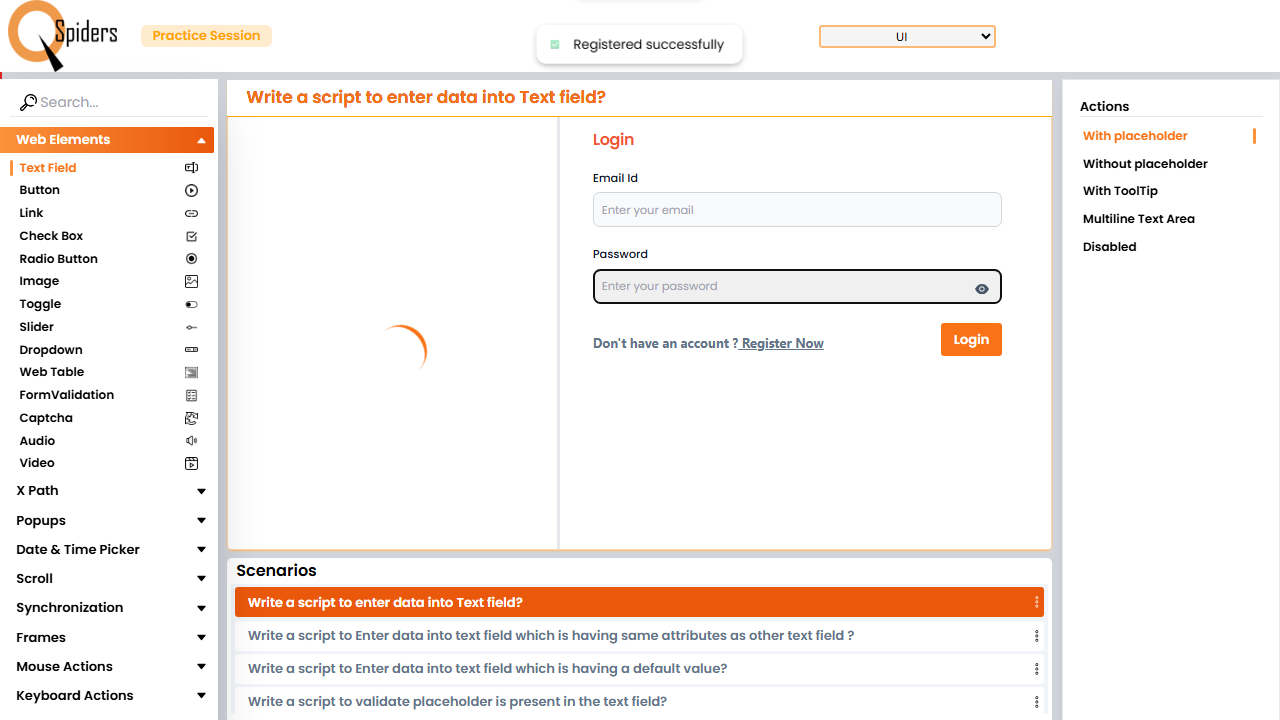
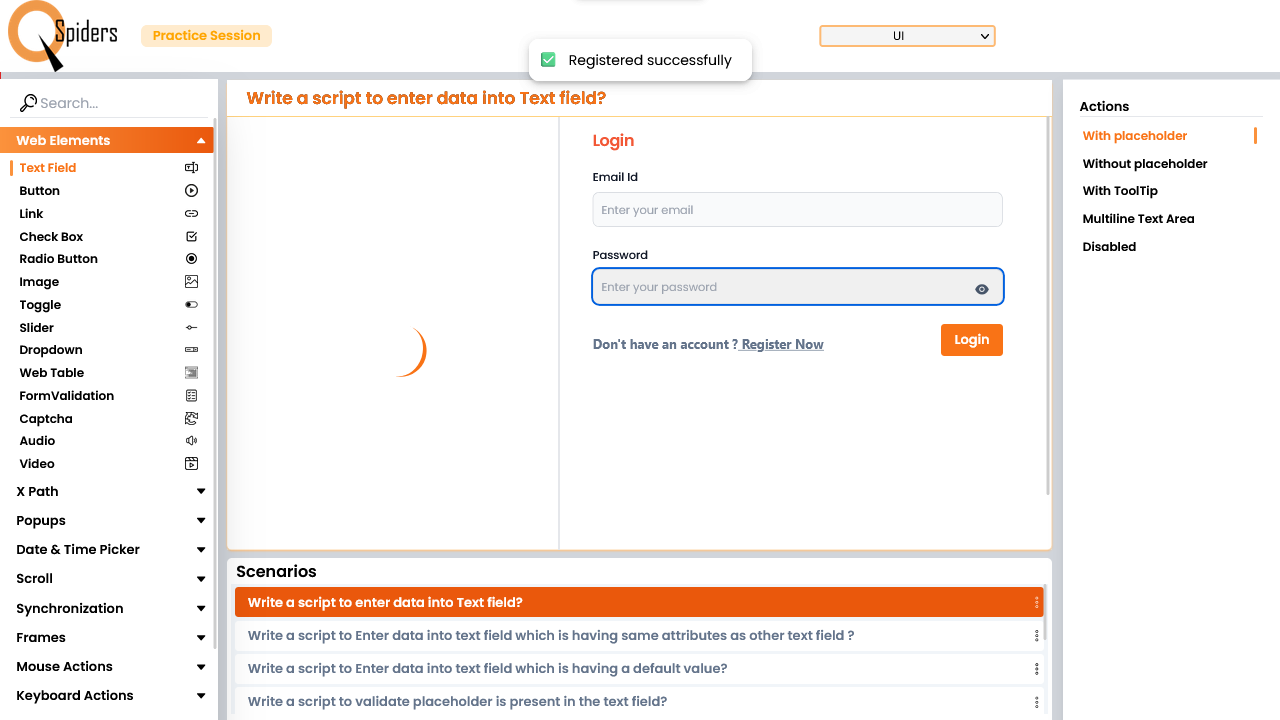
taks1_6marcch

diff --git a/tests/xpath.spec.ts b/tests/xpath.spec.ts
@@ -1,0 +1,21 @@
+import {test} from "@playwright/test"
+
+//span[text()=Womens]-this will not show because women is in between but we can do
+//span[contains()]
+//  //span[contains(@class,"shortcut-name nav-assistant-card-font")]
+//span[contains(text(),"Wed, 11 Mar")]
+  
+
+//section[ ]/child::div/child::h1[] or //section[]/des
+//span[@aria-hidden="true"]
+//div[@id="form"]/child::div/child::input[@id="username"]
+//li[@id="menu-item-19"]/child::a[@href="https://practicetestautomation.com/blog/"]
+//div[@id="form"]/descendant::input[@id="username"]/preceding-sibling::label/following-sibling::input
+
+//input[@id="username"]/ancestor::div[@id="form"]
+//input[@name="password"]/ancestor::div[@id="form"]
+
+
+//div[@class="col col-7-12"]/child::div/child::div[text()='Google Pixel 9A (Porcelain, 256 GB)']
+//div[text()="Google Pixel 9A (Porcelain, 256 GB)"]/ancestor::div[contains(@class, "col")]//div[text()="₹39,999"]
+//*[name()="svg"]

diff --git a/tests/Day_6Mrch_task1.spec.ts b/tests/Day_6Mrch_task1.spec.ts
@@ -1,0 +1,16 @@
+import { test } from '@playwright/test';
+
+test('Question 1', async ({ page }) => {
+
+  await page.goto('https://www.olympics.com/en/olympic-games/tokyo-2020/athletes');
+
+  await page.locator('//button[@id="onetrust-accept-btn-handler"]').click();
+
+  const athletes = page.locator('(//div[@class="sc-d8cd2c5-2 dPlqCj"]/child::h3[contains(text(),"Emma MCKEON")]/ancestor::div[@data-row-id="athlete-row-2"]/following-sibling::div[@data-row-id="medals-row-2"]/descendant::span[@data-cy="ocs-text-module"])').nth(1);
+
+  const medals = await athletes.textContent();
+
+  console.log(medals);
+  await page.screenshot({ path: 'screenshot/q_1.png' });
+
+});
